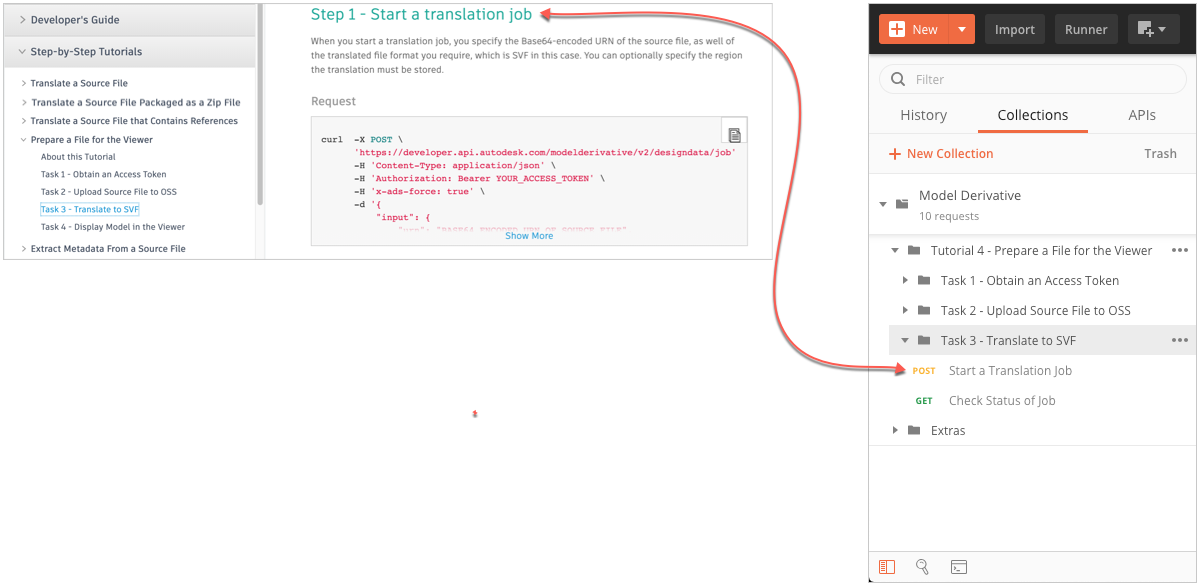
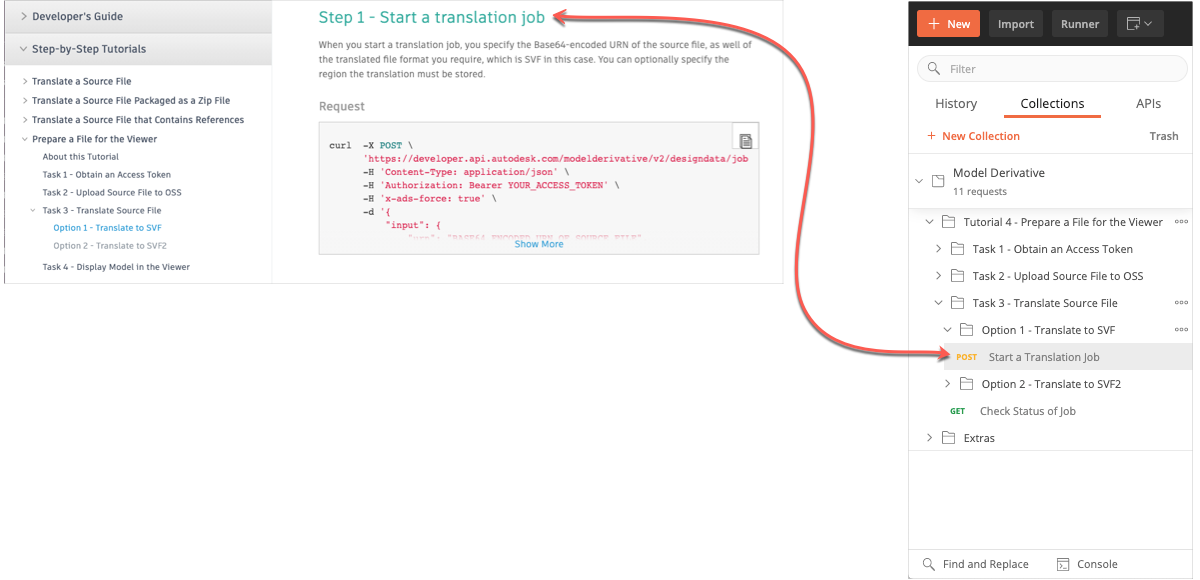
Updsted images

diff --git a/ModelDerivative_04/readme.md b/ModelDerivative_04/readme.md
@@ -26,5 +26,7 @@ Instructions to run the Postman collection are as follows:
 - [Before you begin](instructions/before_you_begin.md)
 - [Task 1 - Obtain an Access Token](instructions/task-1.md)
 - [Task 2 - Upload Source File to OSS](instructions/task-2.md)
-- [Task 3 – Translate to Source File](instructions/task-3.md)
+- [Task 3 – Translate Source File](instructions/task-3.md)
+  - [Option 1 - Translate to SVF](instructions/task-3_option_1.md)
+  - [Option 2 - Translate to SVF2](instructions/task-3_option_2.md)
 - [Task 4 - Display Model in Viewer](instructions/task-4.md)
